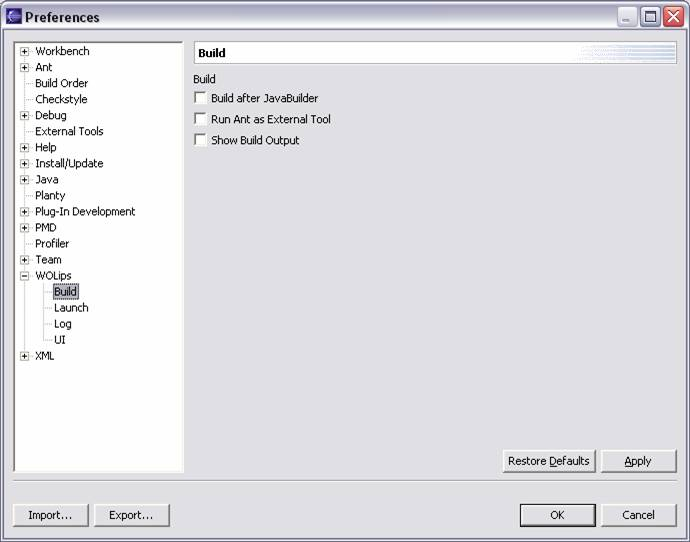
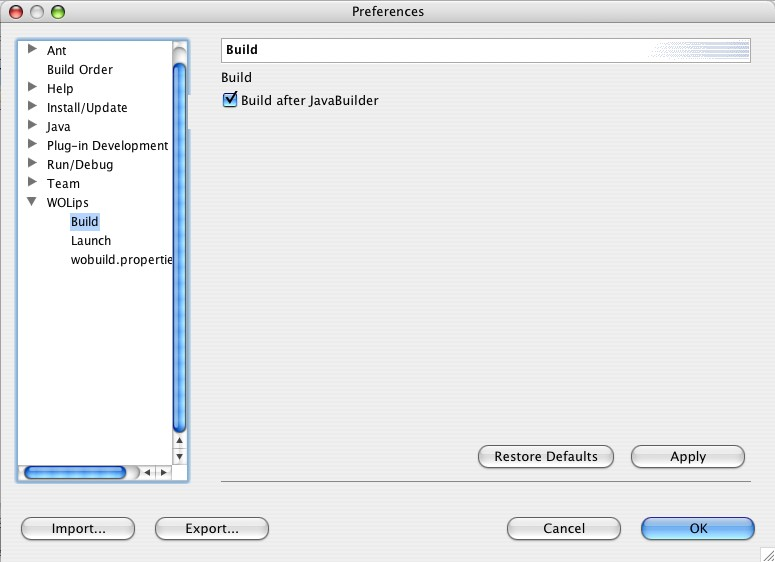
New preferences.
git-svn-id: https://svn.objectstyle.org/repos/woproject/branches/eclipse_3_0_0@1631 930f2ab1-3212-0410-a8ea-d1eb4cc50a93

Changed region(s): [[0.0, 0.0, 1.0, 1.0]]

diff --git a/projects/wolips/plugins/org.objectstyle.wolips.documentation/doc_root/reference/preferences.html b/projects/wolips/plugins/org.objectstyle.wolips.documentation/doc_root/reference/preferences.html
@@ -15,7 +15,20 @@
   </tr>
   <tr> 
     <td valign="top"> 
-      <h3><a name="plugin_wolips"></a>WOLips</h3>
+      <h3><a name="plugin_wolips_build"></a>WOLips - Build<</h3>
+     <ul>
+        <li><b>Build after JavaBuilder</b> - When this option is checked applications 
+          and frameworks are built everytime any java code is compiled (which 
+          is everytime you save any changes, or when you specifically do Project 
+          &gt; Rebuild Project). The '+' and '-' buttons in the perspective turns 
+          this option on/off.</li>
+       </ul>
+    </td>
+    <td><img src="../images/pref/plugin_wolips_build.jpg" height="300"></td>
+  </tr>
+  <tr> 
+    <td valign="top"> 
+      <h3><a name="plugin_wolips_wobuild_properties"></a>WOLips - wobuild.properties</h3>
       <ul>
         <li><b>Rebuild the wobuild.properties file on the next launch</b> - The 
           Ant build script requires that this file exists, and is correct. It 
@@ -23,26 +36,8 @@
           installed. If, for some reason, you need to recreate this file, check 
           this option and restart Eclipse.</li>
       </ul>
-    </td>
-    <td><img src="../images/pref/plugin_wolips.jpg" height="300"></td>
-  </tr>
-  <tr> 
-    <td valign="top"> 
-      <h3><a name="plugin_wolips_build"></a>WOLips - Build</h3>
-      <ul>
-        <li><b>Build after JavaBuilder</b> - When this option is checked applications 
-          and frameworks are built everytime any java code is compiled (which 
-          is everytime you save any changes, or when you specifically do Project 
-          &gt; Rebuild Project). The '+' and '-' buttons in the perspective turns 
-          this option on/off.</li>
-        <li><b>Run Ant as External Tool</b> - There are two ways to build applications 
-          and frameworks: with the Eclipse AntRunner and as an external tool. 
-          With this option checked the external tool alternative is used. Otherwise 
-          the Eclipse AntRunner is used.</li>
-        <li><b>Show Build Output</b> - Currently does nothing.</li>
-      </ul>
-    </td>
-    <td><img src="../images/pref/plugin_wolips_build.jpg" height="300"></td>
+     </td>
+    <td><img src="../images/pref/plugin_wolips_wobuild_properties.jpg" height="300"></td>
   </tr>
   <tr> 
     <td valign="top"> 
@@ -53,12 +48,12 @@
           for frameworks. There are two ways to expand it: - in the preferences 
           - in the launch configuration wizard Under the WOArguments tab you will 
           find a list of default arguments including: "-NSProjectSearchPath (GeneratedByWOLips)" 
-          In the case of a launch WOLips replaces "GeneratedByWOLips" with a path 
+          In the case of a launch WOLips replaces "Automatic" with a path 
           to all your projects in the the workbench.(It does not matter if the 
           projects are in folder workspace or not.) If you expand the NSProjectPath 
           in the preferences WOLips takes care of the "," between the entires. 
           If you expand it in the launch configuration wizard, you have to add 
-          "," between your entries and the "GenereatedByWOLips". How to add a 
+          "," between your entries and the "Automatic". How to add a 
           launch configuration: - Select your project. - Select Run->Run...(Or 
           Run->Debug...) - Choose WOApplication. - Click add. - Search for the 
           Main class. - Click run. You can use this configuration to run and debug. 
@@ -69,27 +64,6 @@
       </ul>
     </td>
     <td><img src="../images/pref/plugin_wolips_launch.jpg" height="300"></td>
-  </tr>
-  <tr> 
-    <td valign="top"> 
-      <h3><a name="plugin_wolips_log"></a>WOLips - Log</h3>
-      <p>&nbsp;</p>
-    </td>
-    <td><img src="../images/pref/plugin_wolips_log.jpg" height="300"></td>
-  </tr>
-  <tr> 
-    <td valign="top"> 
-      <h3><a name="plugin_wolips_ui"></a>WOLips - UI</h3>
-      <ul>
-        <li><b>Models Filter</b> - A filter that determines which files are displayed 
-          in the Model view.</li>
-        <li><b>Components Filter</b> - A filter that determines which files are 
-          displayed in the WO view.</li>
-        <li><b>Products Filter</b> - A filter that determines which files are 
-          displayed in the Target view.</li>
-      </ul>
-    </td>
-    <td><img src="../images/pref/plugin_wolips_ui.jpg" height="300"></td>
   </tr>
   <tr> 
     <td> 
